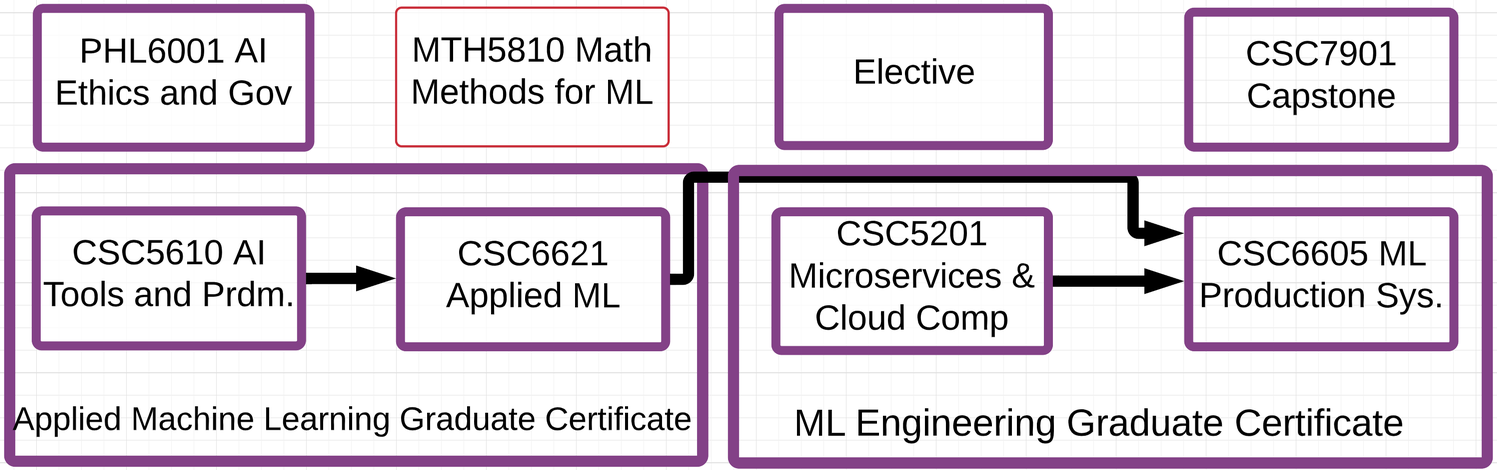
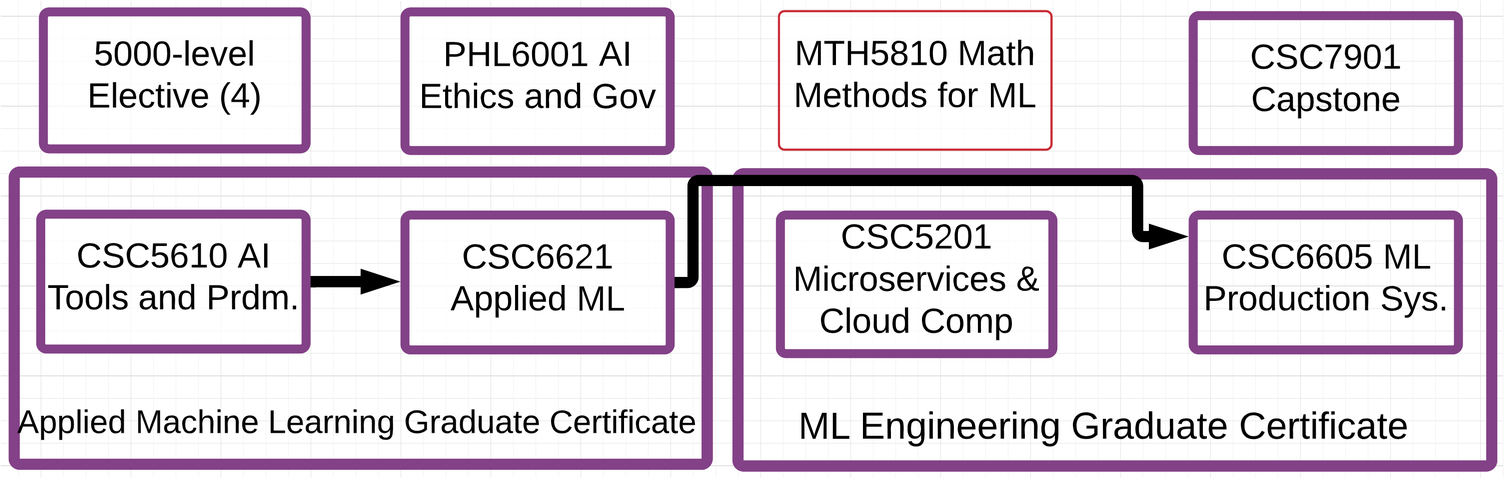
MSML: CSC5601 update offerings; fix prereqs in curriculum diagram; improve default course order

diff --git a/advising/msml.md b/advising/msml.md
@@ -43,7 +43,7 @@ More information will be posted soon. Please contact MS ML program director [Dr.
 
 MSOE CS students and graduates replace CSC5610 and MTH5810 with approved electives.
 
-<img src="msml-2y-1x.png" width="748" height="235" border="0" srcset="msml-2y-1x.png 1x, msml-2y-2x.png 2x, msml-2y-4x.png 4x"/>
+<img src="msml-2y-1x.png" width="752" height="239" border="0" srcset="msml-2y-1x.png 1x, msml-2y-2x.png 2x, msml-2y-4x.png 4x"/>
 
 # Course Details
 
@@ -52,12 +52,12 @@ Course | Type | Title | Structure | Offered | Coordinator | Prerequisites
 CSC5120 | Background | Software Development for Machine Learning | 4-0-4 | summer beginning '23 | Dr. Magaña | CSC1110 &#124; CSC1310 &#124; consent
 CSC5201 | Required | Microservices and Cloud Computing | 4-0-4 | spring | Dr. Hasker | SWE2710 &#124; (CSC3320 &amp; CSC3210) &#124; CPE2600 &#124; consent &#124; …
 CSC5241 | Elective | GPU Programming | 4-0-4 | | Dr. Berisha
-CSC5601 | Elective | Theory of Machine Learning | 4-0-4 | fall &amp; spring | Dr. Bukowy | (MTH2130 &amp; MTH2340 &amp; CSC2610) &#124; consent
+CSC5601 | Elective | Theory of Machine Learning | 4-0-4 | spring, 2024 then every fall | Dr. Bukowy | (MTH2130 &amp; MTH2340 &amp; CSC2610) &#124; consent
 CSC5610 | Required | AI Tools and Paradigms | 4-0-4 | fall &amp; spring | Dr. Nowling | (MTH2130 &#124; MTH2340 &#124; MTH5810) &amp; (CSC1120 &#124; equivalent) &#124; consent
 CSC5611 | Elective | Deep Learning | 4-0-4 | spring | Dr. Yoder | CSC4601 &#124; CSC5601 &#124; CSC6621 &#124; consent
 CSC5651 | Elective | Deep Learning in Signal Processing | 4-0-4 | fall, 2023 then again in 2025-&lsquo;26 | Dr. Durant
 CSC5980(1) | Elective | Topics in Computer Science (with Laboratory) | varies
-CSC6605 | Required | Machine Learning Production Systems | 4-0-4 | fall &amp; summer | Dr. Nowling | CSC6621 &#124; CSC4601 &#124; consent
+CSC6605 | Required | Machine Learning Production Systems | 4-0-4 | fall &amp; summer | Dr. Nowling | CSC6621 &#124; CSC4601 &#124; CSC5601 &#124; consent
 CSC6621 | Required | Applied Machine Learning | 4-0-4 | spring &amp; summer | Dr. Nowling | (CSC5610 &#124; CSC2621) &amp; (MTH2130 &#124; MTH2340 &#124; MTH5810) &#124; consent &#124; CS2300
 CSC6980 | Elective | Topics in Computer Science | varies
 CSC6999 | Elective | Computer Science Independent Study | varies
